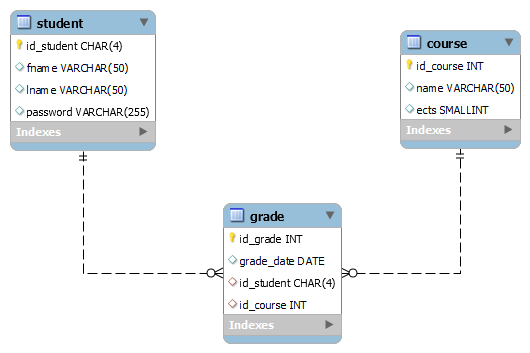
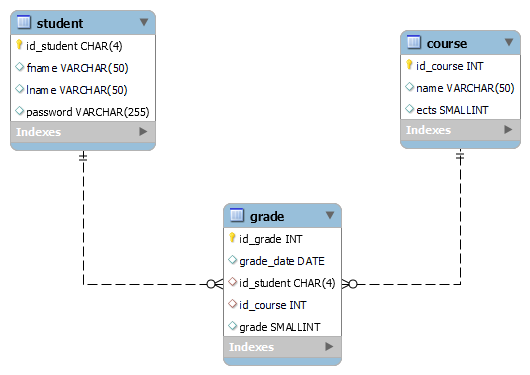
grade taulun crud operaatiot ja päivämäärän formaatti

Changed region(s): [[0.0, 0.0, 0.3019, 0.4674], [0.1509, 0.5297, 0.8755, 0.9348], [0.7547, 0.0623, 0.9962, 0.4674]]

diff --git a/backend/models/grade_model.js b/backend/models/grade_model.js
@@ -1,0 +1,27 @@
+const db = require('../database');
+
+
+const grade = {
+    getById: function (id, callback) {
+        return db.query('select id_grade, date_format(grade_date,"%d.%m.%Y") as "grade_date", id_student, id_course, grade from grade where id_grade=?', [id], callback);
+    },
+    getAll: function (callback) {
+        return db.query('select id_grade, date_format(grade_date,"%d.%m.%Y") as "grade_date", id_student, id_course, grade from grade', callback);
+    },
+    add: function (add_data, callback) {
+        return db.query(
+            'insert into grade (grade_date,id_student,id_course,grade) values(?,?,?,?)',
+            [add_data.grade_date, add_data.id_student, add_data.id_course, add_data.grade],
+            callback);
+    },
+    delete: function (id, callback) {
+        return db.query('delete from grade where id_grade=?', [id], callback);
+    },
+    update: function (id, update_data, callback) {
+            return db.query( 
+                'update grade set grade_date=?, id_student=?, id_course=?, grade=? where id_grade=?',
+                [update_data.grade_date, update_data.id_student, update_data.id_course, update_data.grade, id],
+                callback);
+    }
+};
+module.exports = grade;

diff --git a/backend/app.js b/backend/app.js
@@ -7,6 +7,7 @@ var indexRouter = require('./routes/index');
 var usersRouter = require('./routes/users');
 var studentRouter = require('./routes/student');
 var courseRouter = require('./routes/course');
+var gradeRouter = require('./routes/grade');
 
 var app = express();
 
@@ -20,5 +21,6 @@ app.use('/', indexRouter);
 app.use('/users', usersRouter);
 app.use('/student', studentRouter);
 app.use('/course', courseRouter);
+app.use('/grade', gradeRouter);
 
 module.exports = app;
